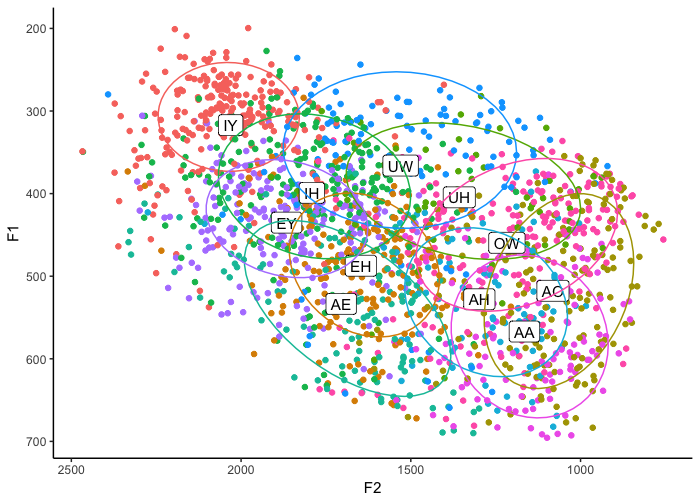
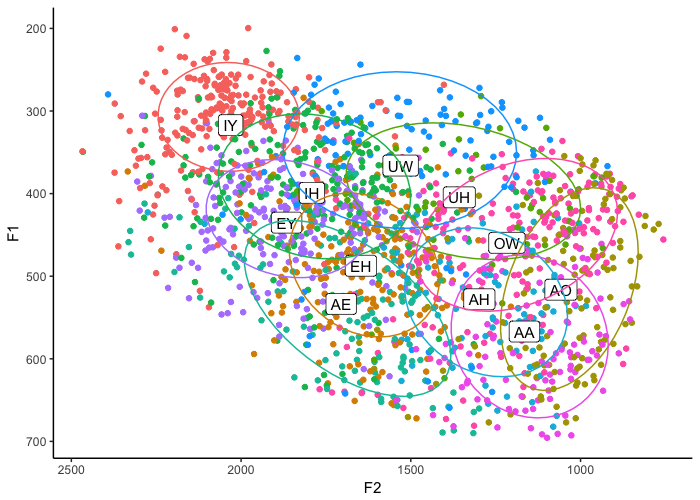
removed "on" from the data

diff --git a/_posts/2018-03-18-making-vowel-plots-in-r-part-1.md b/_posts/2018-03-18-making-vowel-plots-in-r-part-1.md
@@ -22,7 +22,7 @@ As with any R script, the first step (after loading your packages) is to read in
 my_vowels <- read.csv("data/joey.csv") %>%
     filter(stress == 1, 
            !vowel %in% c("AY", "AW", "OY", "ER"),
-           !word %in% c("TO", "US")) %>%
+           !word %in% c("TO", "US", "ON")) %>%
     mutate(word = tolower(word))
 ```
 
@@ -567,7 +567,7 @@ ggplot(my_five_vowels, aes(x = F2, y = F1, color = vowel, label = vowel, shape =
 Okay, last thing, I promise. If your dataset is relatively small, a really slick trick is to plot the words themselves rather than points. We saw how to do this above when we were plotting the means, but let's apply that to the regular data. For this example, I'll just zoom in on my "AA" and "AO" vowels (except for the ones before /ɹ/) because I've been reading about the *cot*-*caught* merger recently. 
 
 ```r
-cot_caught <- subset(my_vowels, vowel %in% c("AA", "AO"))
+cot_caught <- subset(my_vowels, vowel %in% c("AA", "AO") & fol_seg != "R")
 cot_caught_means <- cot_caught %>%
     group_by(vowel) %>%
     summarise(mean_F1 = mean(F1),
